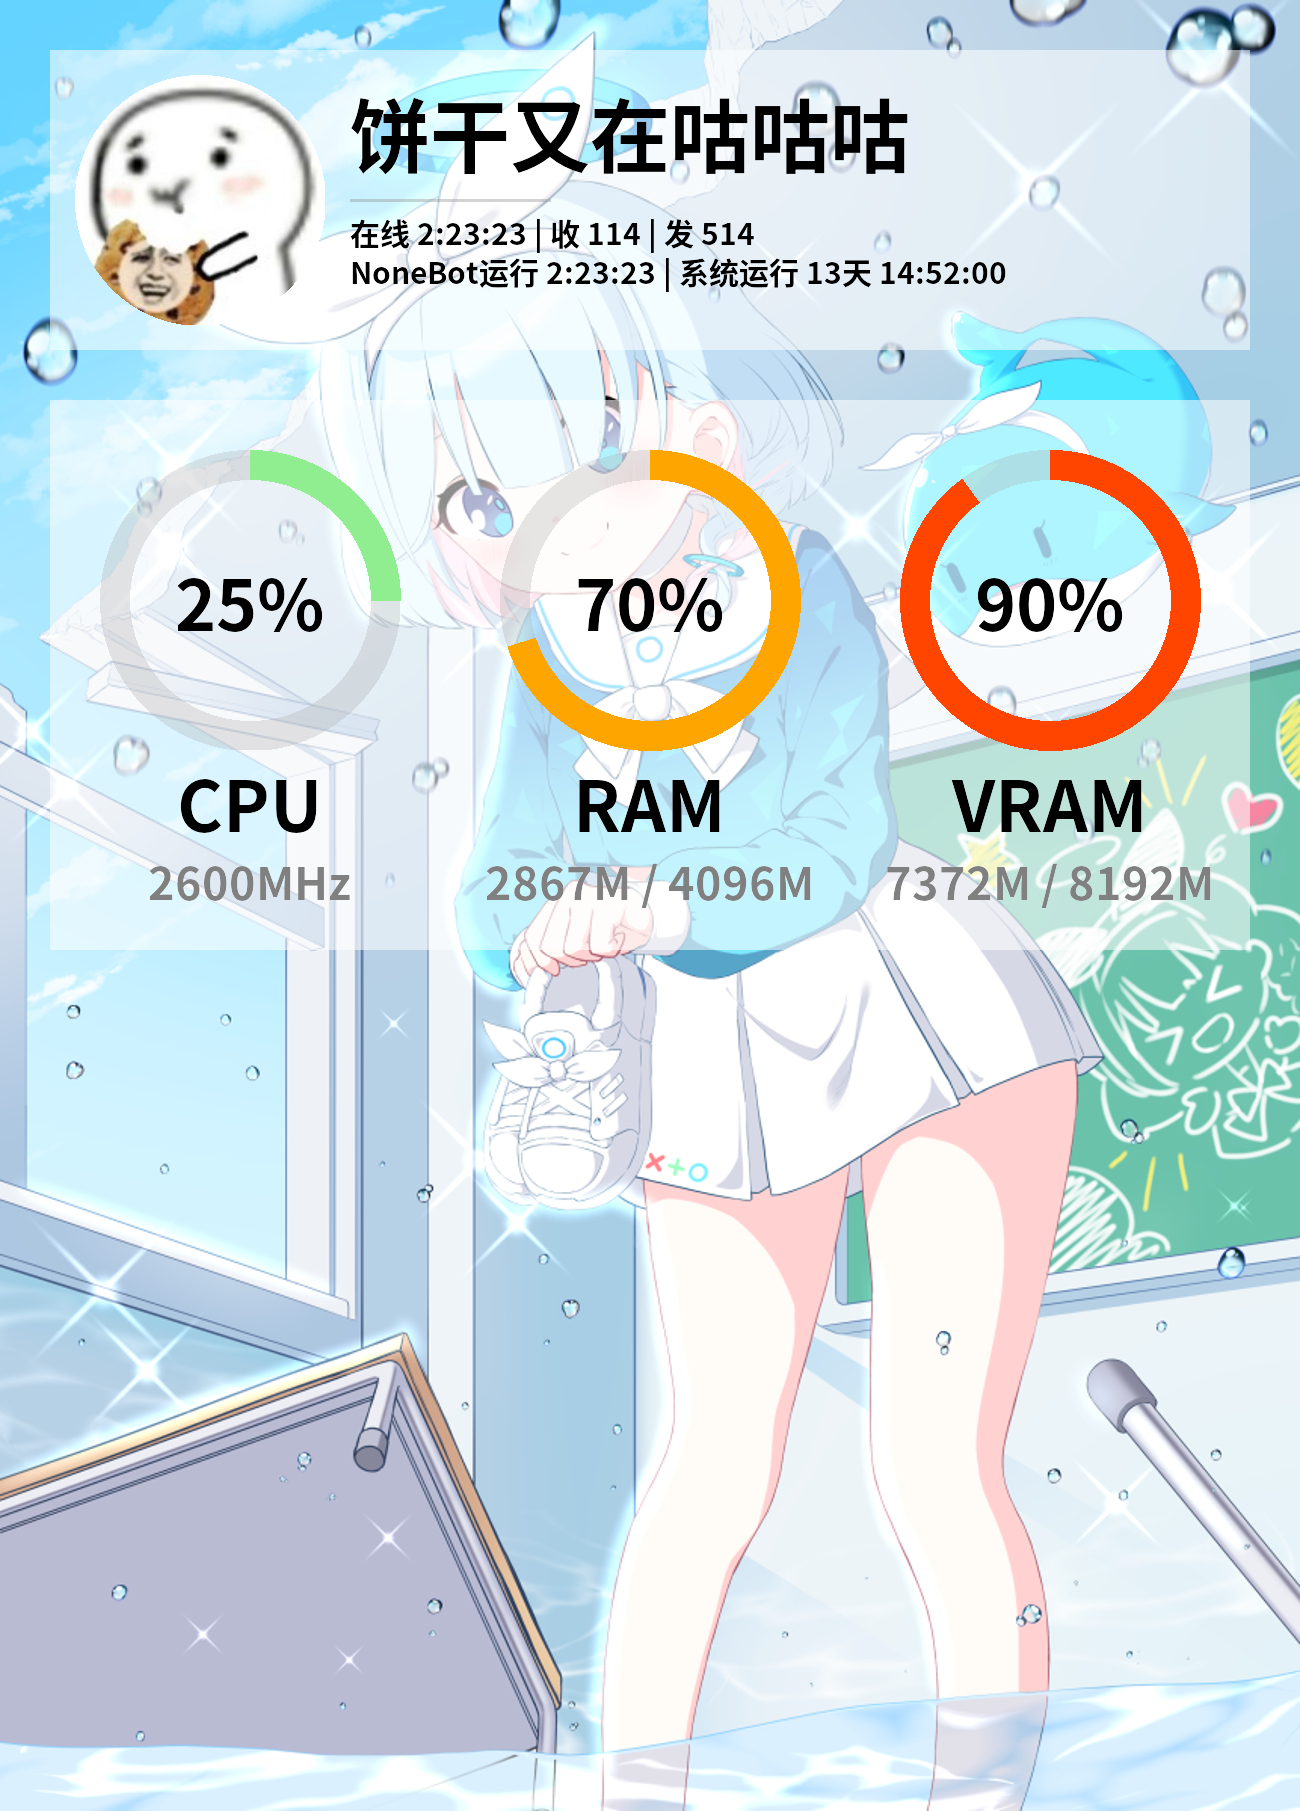
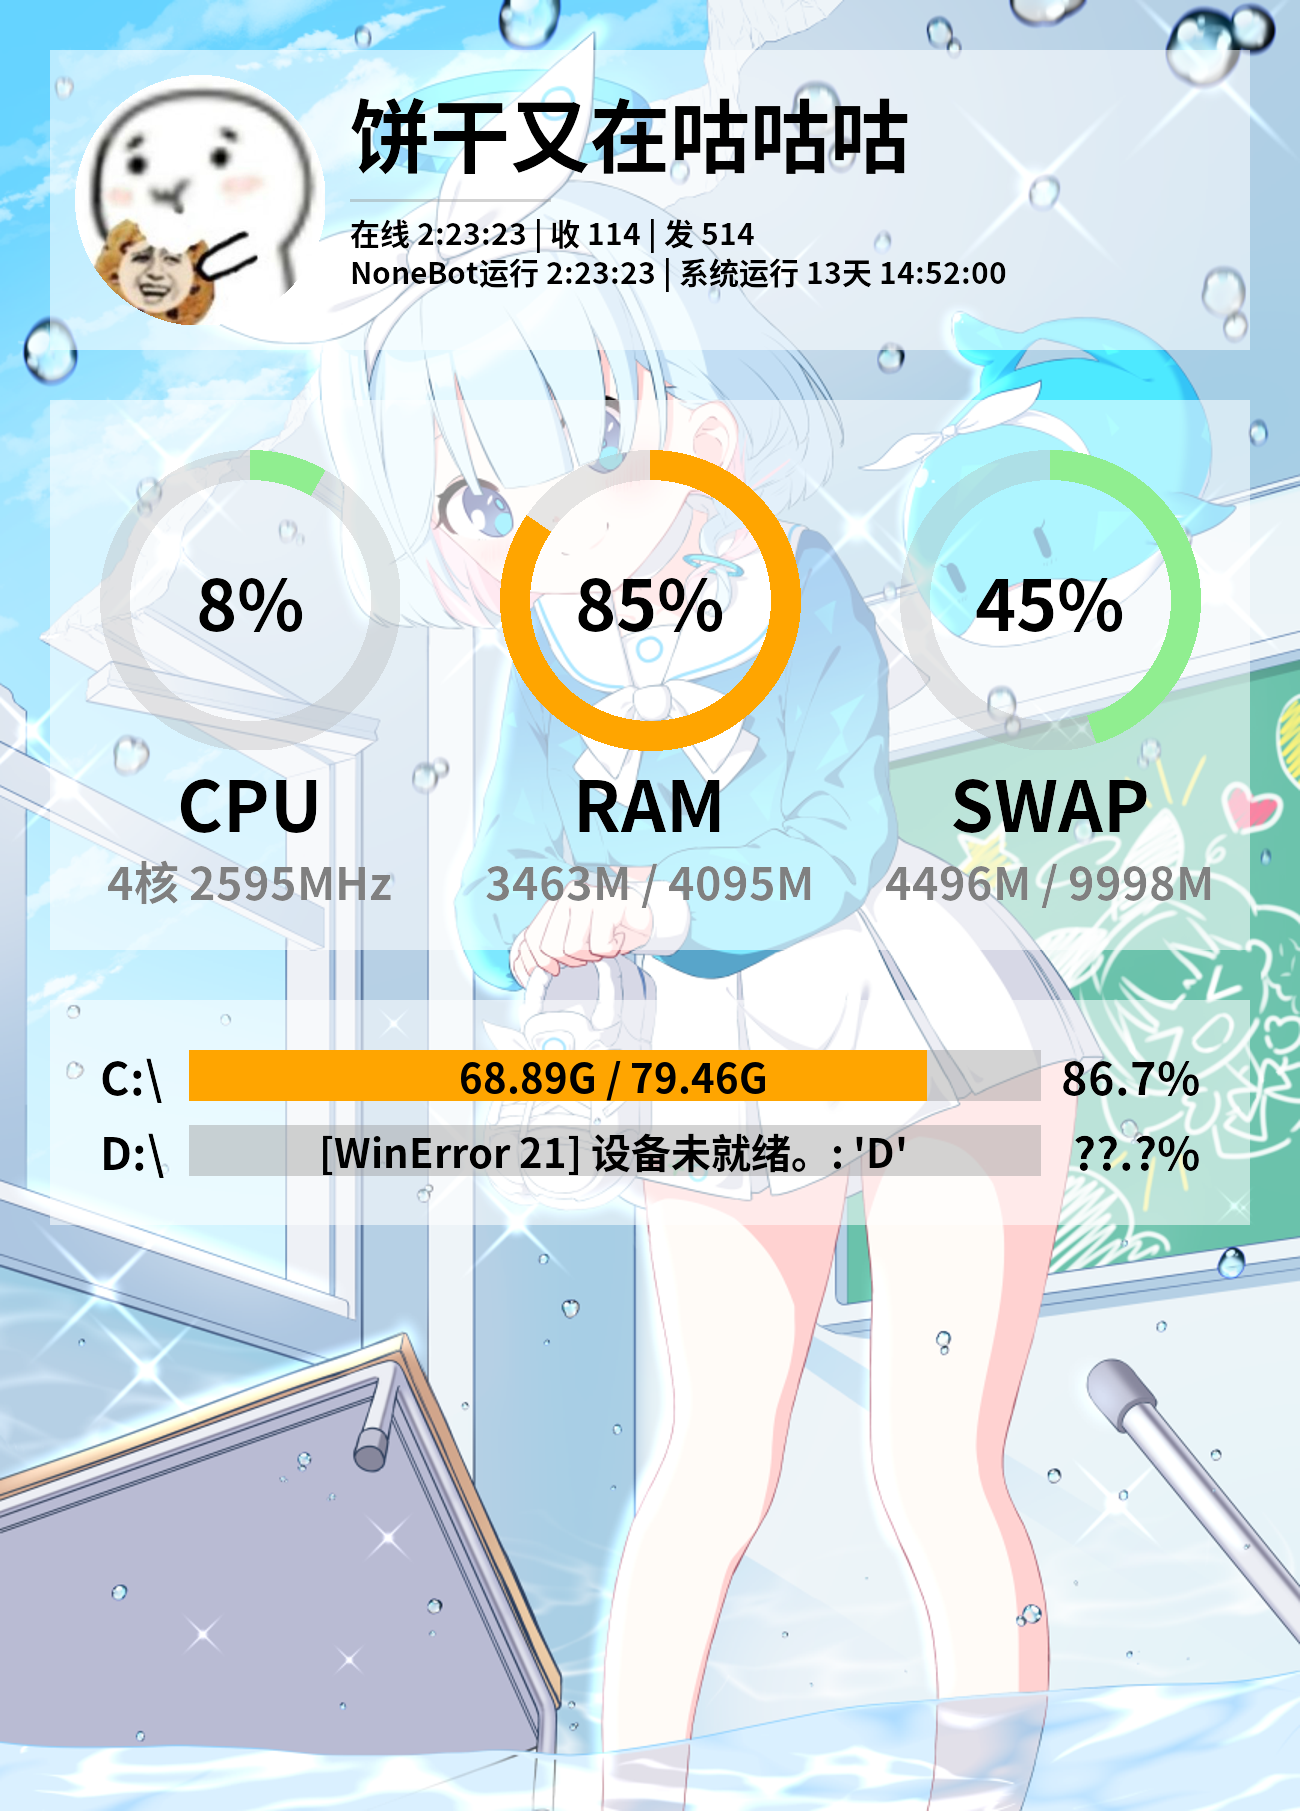
demo

diff --git a/demo/demo.py b/demo/demo.py
@@ -1,63 +1,215 @@
+import psutil
 from PIL import Image, ImageDraw, ImageFont
+from psutil._common import sdiskusage  # noqa
+
+GRAY_BG_COLOR = "#aaaaaaaa"
+WHITE_BG_COLOR = "#ffffff66"
 
 
 def get_font(size: int):
-    return ImageFont.truetype('SourceHanSansSC-Bold-2.otf', size=size)
+    return ImageFont.truetype("SourceHanSansSC-Bold-2.otf", size=size)
+
+
+def get_usage_color(usage: float):
+    if usage >= 90:
+        return "orangered"
+    elif usage >= 70:
+        return "orange"
+    else:
+        return "lightgreen"
 
 
 def draw_header():
-    circle_mask = Image.new('RGBA', (250, 250), '#ffffff00')
-    ImageDraw.Draw(circle_mask).ellipse((0, 0, 250, 250), fill='black')
+    font_30 = get_font(30)
 
-    header = Image.new('RGBA', (1200, 300), '#ffffff66')
-    avatar: Image.Image = Image.open('photo_2020-12-08_22-46-51.jpg')
-    avatar = avatar.convert('RGBA').resize((250, 250))
-    header.paste(avatar, (25, 25), circle_mask)
+    bg = Image.new("RGBA", (1200, 300), WHITE_BG_COLOR)
+    bg_draw = ImageDraw.Draw(bg)
 
-    header_draw = ImageDraw.Draw(header)
-    f30 = get_font(30)
-    header_draw.text((300, 140), '饼干又在咕咕咕', 'black', get_font(80), 'ld')
-    stat_t = ('在线 2:23:23 | 收 114 | 发 514\n'
-              'NoneBot运行 2:23:23 | 系统运行 13天 14:52:00')
-    header_draw.multiline_text((300, 160), stat_t, 'black', f30)
-    header_draw.line((300, 150, 500, 150), '#aaaaaaaa', 3)
+    # 圆形遮罩
+    circle_mask = Image.new("RGBA", (250, 250), "#ffffff00")
+    ImageDraw.Draw(circle_mask).ellipse((0, 0, 250, 250), fill="black")
 
-    return header
+    # 利用遮罩裁剪圆形图片
+    avatar: Image.Image = Image.open("photo_2020-12-08_22-46-51.jpg")
+    avatar = avatar.convert("RGBA").resize((250, 250))
+    bg.paste(avatar, (25, 25), circle_mask)
+
+    # 标题
+    bg_draw.text((300, 140), "饼干又在咕咕咕", "black", get_font(80), "ld")
+
+    # 详细信息
+    bg_draw.multiline_text(
+        (300, 160),
+        "在线 2:23:23 | 收 114 | 发 514\nNoneBot运行 2:23:23 | 系统运行 13天 14:52:00",
+        "black",
+        font_30,
+    )
+
+    # 标题与详细信息的分隔线
+    bg_draw.line((300, 150, 500, 150), GRAY_BG_COLOR, 3)
+
+    return bg
 
 
 def draw_cpu_memory_usage():
-    bg = Image.new('RGBA', (1200, 550), '#ffffff66')
-    circle_bg = Image.new('RGBA', (300, 300), '#ffffff00')
-    ImageDraw.Draw(circle_bg).arc((0, 0, 300, 300), 0, 360, '#aaaaaaaa', 30)
+    # 获取占用信息
+    cpu_percent = psutil.cpu_percent(interval=0.1)
+    cpu_count = psutil.cpu_count(logical=False)
+    cpu_freq = psutil.cpu_freq()
+    ram_stat = psutil.virtual_memory()
+    swap_stat = psutil.swap_memory()
 
+    font_70 = get_font(70)
+    font_45 = get_font(45)
+
+    bg = Image.new("RGBA", (1200, 550), WHITE_BG_COLOR)
+    bg_draw = ImageDraw.Draw(bg)
+
+    # 背景灰色圆环
+    circle_bg = Image.new("RGBA", (300, 300), "#ffffff00")
+    ImageDraw.Draw(circle_bg).arc((0, 0, 300, 300), 0, 360, GRAY_BG_COLOR, 30)
     bg.paste(circle_bg, (50, 50), circle_bg)
     bg.paste(circle_bg, (450, 50), circle_bg)
     bg.paste(circle_bg, (850, 50), circle_bg)
 
+    # 写字
+    bg_draw.text((200, 350), "CPU", "black", font_70, "ma")
+    bg_draw.text((600, 350), "RAM", "black", font_70, "ma")
+    bg_draw.text((1000, 350), "SWAP", "black", font_70, "ma")
+
+    # 写占用率
+    bg_draw.text((200, 200), f"{cpu_percent:.0f}%", "black", font_70, "mm")
+    bg_draw.text((600, 200), f"{ram_stat.percent:.0f}%", "black", font_70, "mm")
+    bg_draw.text((1000, 200), f"{swap_stat.percent:.0f}%", "black", font_70, "mm")
+
+    # 画占用率圆环
+    bg_draw.arc(
+        (50, 50, 350, 350),
+        -90,
+        (3.6 * cpu_percent) - 90,
+        get_usage_color(cpu_percent),
+        30,
+    )
+    bg_draw.arc(
+        (450, 50, 750, 350),
+        -90,
+        (3.6 * ram_stat.percent) - 90,
+        get_usage_color(ram_stat.percent),
+        30,
+    )
+    bg_draw.arc(
+        (850, 50, 1150, 350),
+        -90,
+        (3.6 * swap_stat.percent) - 90,
+        get_usage_color(swap_stat.percent),
+        30,
+    )
+
+    # 写详细信息
+    bg_draw.text(
+        (200, 500), f"{cpu_count}核 {cpu_freq.max:.0f}MHz", "gray", font_45, "ms"
+    )
+    bg_draw.text(
+        (600, 500),
+        f"{ram_stat.used / 1024 / 1024:.0f}M / {ram_stat.total / 1024 / 1024:.0f}M",
+        "gray",
+        font_45,
+        "ms",
+    )
+    bg_draw.text(
+        (1000, 500),
+        f"{swap_stat.used / 1024 / 1024:.0f}M / {swap_stat.total / 1024 / 1024:.0f}M",
+        "gray",
+        font_45,
+        "ms",
+    )
+
+    return bg
+
+
+def draw_disk_usage():
+    font_45 = get_font(45)
+    font_40 = get_font(40)
+
+    # 获取磁盘状态
+    disks = {}
+    left_padding = 0
+    for d in psutil.disk_partitions():
+        # 根据盘符长度计算左侧留空长度用于写字
+        s = font_45.getlength(d.mountpoint) + 25
+        if s > left_padding:
+            left_padding = s
+
+        try:
+            disks[d.mountpoint] = psutil.disk_usage(d.mountpoint)
+        except Exception as e:
+            # logger.exception(f'读取 {d.mountpoint} 占用失败')
+            disks[d.mountpoint] = e
+
+    # 计算图片高度，创建背景图
+    count = len(disks)
+    bg = Image.new(
+        "RGBA",
+        (1200, 100 + (50 * count) + (25 * (count - 1))),  # 上下边距50 一个磁盘50 间距25
+        WHITE_BG_COLOR,
+    )
     bg_draw = ImageDraw.Draw(bg)
-    bg_draw.text((200, 200), '25%', 'black', get_font(70), 'mm')
-    bg_draw.text((600, 200), '70%', 'black', get_font(70), 'mm')
-    bg_draw.text((1000, 200), '90%', 'black', get_font(70), 'mm')
 
-    bg_draw.arc((50, 50, 350, 350), -90, (360 * 0.25) - 90, 'lightgreen', 30)
-    bg_draw.arc((450, 50, 750, 350), -90, (360 * 0.70) - 90, 'orange', 30)
-    bg_draw.arc((850, 50, 1150, 350), -90, (360 * 0.90) - 90, 'orangered', 30)
+    max_len = 990 - (50 + left_padding)  # 进度条长度
 
-    bg_draw.text((200, 350), 'CPU', 'black', get_font(70), 'ma')
-    bg_draw.text((600, 350), 'RAM', 'black', get_font(70), 'ma')
-    bg_draw.text((1000, 350), 'VRAM', 'black', get_font(70), 'ma')
+    its: list[tuple[str, sdiskusage | Exception]] = disks.items()  # noqa
+    for i, (name, usage) in enumerate(its):
+        fail = isinstance(usage, Exception)
 
-    bg_draw.text((200, 500), '2600MHz', 'gray', get_font(45), 'ms')
-    bg_draw.text((600, 500), '2867M / 4096M', 'gray', get_font(45), 'ms')
-    bg_draw.text((1000, 500), '7372M / 8192M', 'gray', get_font(45), 'ms')
+        top = 50 * (i + 1) + 25 * i
+
+        # 进度条背景
+        bg_draw.rectangle((50 + left_padding, top, 990, top + 50), GRAY_BG_COLOR)
+
+        # 写盘符
+        bg_draw.text((50, top + 25), name, "black", font_45, "lm")
+
+        # 写占用百分比
+        bg_draw.text(
+            (1150, top + 25),
+            f"{usage.percent:.1f}%" if not fail else "??.?%",
+            "black",
+            font_45,
+            "rm",
+        )
+
+        # 画进度条
+        if not fail:
+            bg_draw.rectangle(
+                (
+                    50 + left_padding,
+                    top,
+                    50 + left_padding + (max_len * (usage.percent / 100)),
+                    top + 50,
+                ),
+                get_usage_color(usage.percent),
+            )
+
+        # 写容量信息/报错信息
+        bg_draw.text(
+            ((max_len / 2) + 50 + left_padding, top + 25),
+            (
+                f"{usage.used / 1024 / 1024 / 1024:.2f}G / {usage.total / 1024 / 1024 / 1024:.2f}G"
+                if not fail
+                else str(usage)
+            ),
+            "black",
+            font_40,
+            "mm",
+        )
 
     return bg
 
 
 def main():
     w = 1300
-    bg: Image.Image = Image.open('88303951_p0.png')
-    bg = bg.convert('RGBA')
+    bg: Image.Image = Image.open("88303951_p0.png")
+    bg = bg.convert("RGBA")
     bg_w, bg_h = bg.size
     scale = w / bg_w
     bg = bg.resize((w, int(bg_h * scale)))
@@ -68,9 +220,12 @@ def main():
     cm = draw_cpu_memory_usage()
     bg.paste(cm, (50, 400), cm)
 
-    bg.save('demo.png', 'png')
+    disk = draw_disk_usage()
+    bg.paste(disk, (50, 1000), disk)
+
+    bg.save("demo.png", "png")
     bg.show()
 
 
-if __name__ == '__main__':
+if __name__ == "__main__":
     main()
